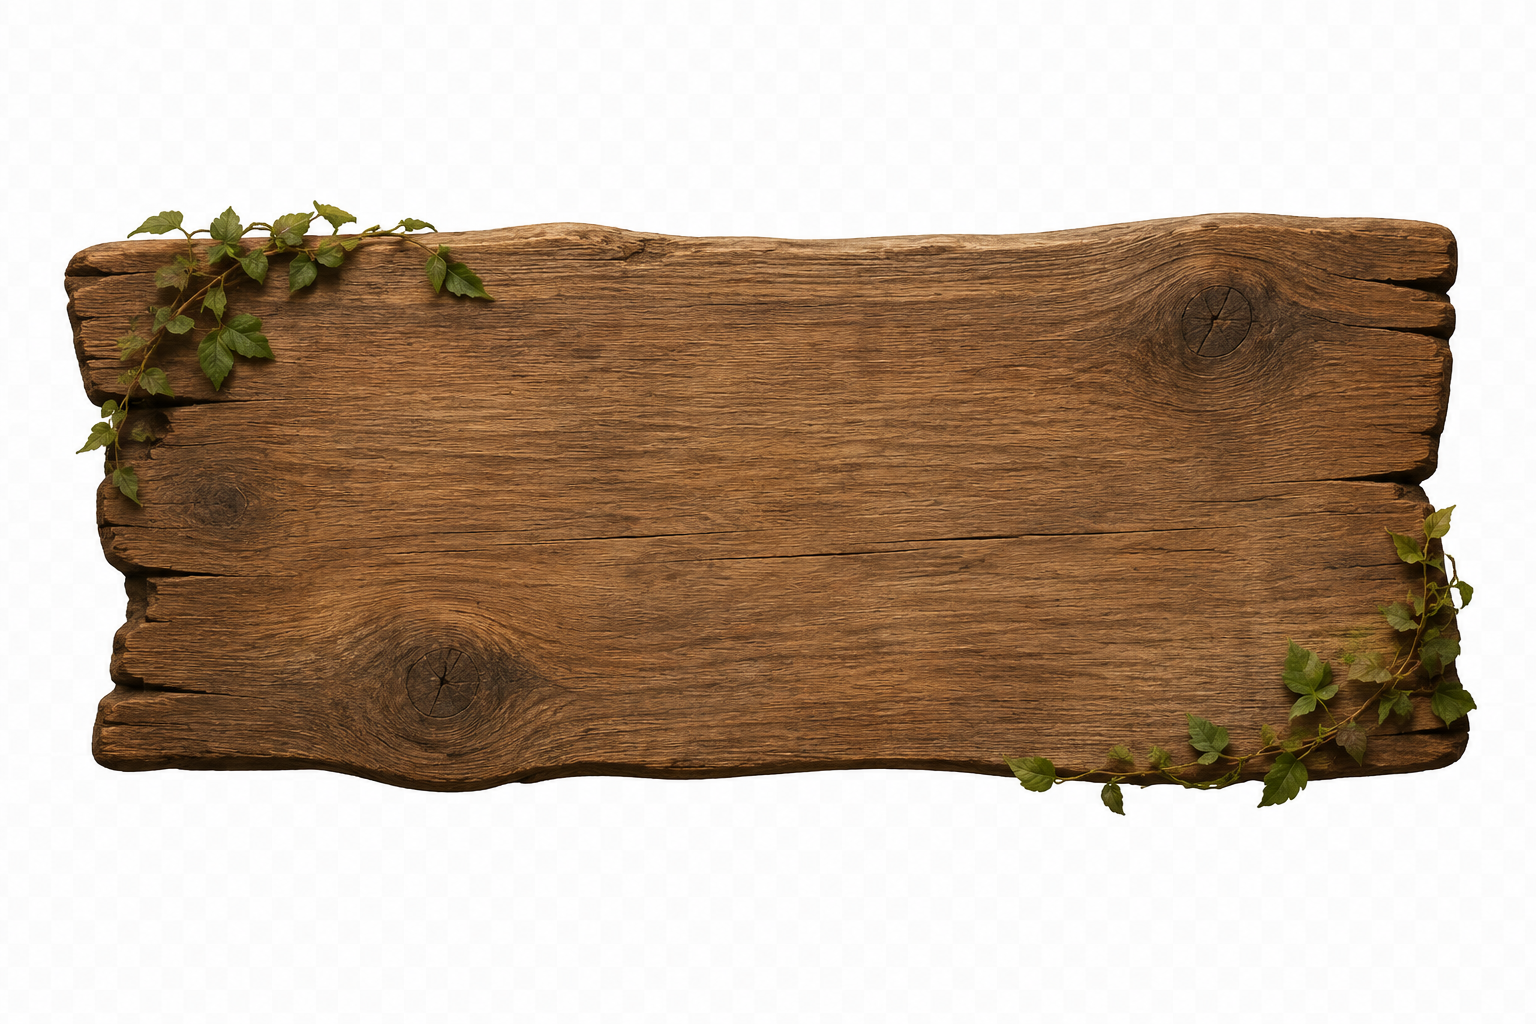
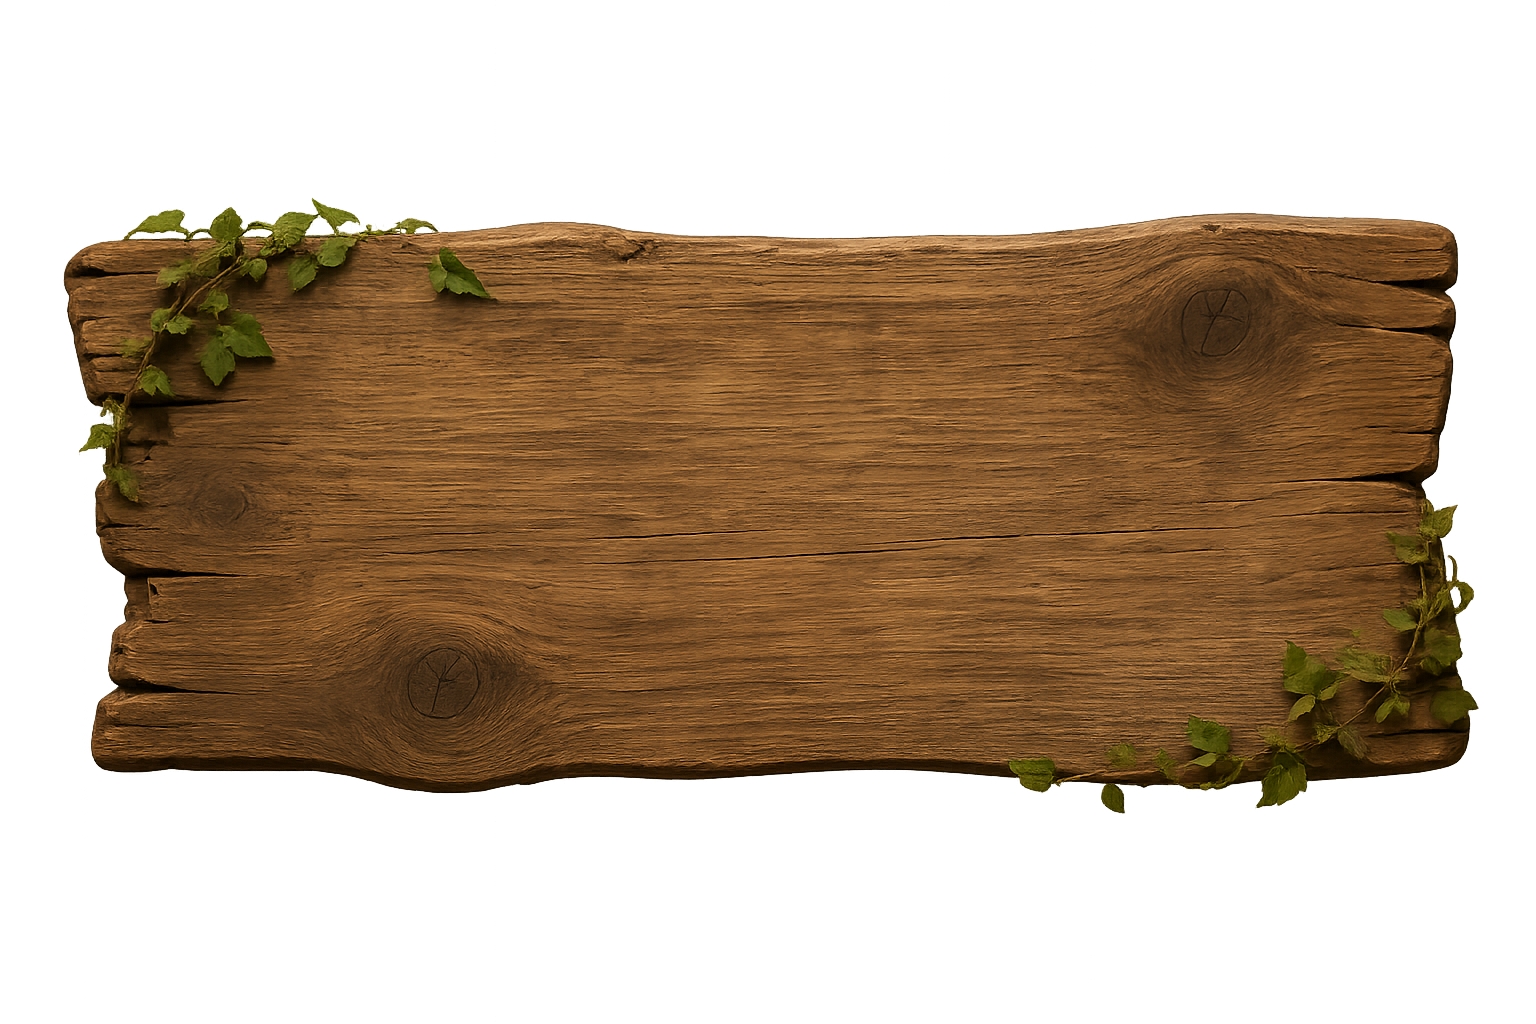
席紹介追加　ボタンCSS改修 6/9

Changed region(s): [[0.0312, 0.1875, 0.9688, 0.7812]]

diff --git a/style.css b/style.css
@@ -29,12 +29,17 @@ body {
     text-shadow: 0 2px 10px rgba(0,0,0,0.3);
 }
 /*とまりぎとは～の設定*/
-section {
+.about-section {
     max-width: 800px;
     margin: 0 auto;
     padding: 80px 20px;
     color: #5c5248;
+    text-align: center;
 }
+.about-section .wood-button {
+    margin: 0 auto;
+}
+
 /*とまりぎとは～のアニメーション設定*/
 .about-section {
     opacity: 0;
@@ -47,10 +52,11 @@ section {
 .about-section.show {
     opacity: 1;
     transform: translateY(0);
+
 }
 
 
-.about-section p {
+.about-section {
     white-space: pre-line;
     text-align: center;
     margin-top: 20px;
@@ -60,11 +66,10 @@ section {
 /*木のボタンの設定*/
 .wood-button{
     display: block;
+    align-self: center;
 
     width: 400px;
     height: 160px;
-
-    margin: 50px auto;
 
     background-image: url("images/button-background.png");
     background-size: contain;
@@ -78,4 +83,26 @@ section {
     text-decoration: none;
     color: #f5f3ee;
     font-size: 1.5rem;
+}
+
+.seat-menu {
+    display: flex;
+    justify-content: center;
+    align-items: center;
+    gap: 40px;
+    margin-top: 40px;
+}
+.seat-menu-image img {
+    width: 300px;
+    height: auto;
+    border-radius: 10px;
+}
+.seat-menu-hitoyasumi-text{
+    text-align: center;
+    font-size: 1.2rem;
+    color: #5c5248;
+    margin-top: 40px;
+    display:flex;
+    flex-direction: column;
+    gap: 10px;
 }

diff --git a/index.html b/index.html
@@ -29,7 +29,22 @@
         ちょっと羽を休めたいとき、 地図を眺める時間が欲しいとき、
         そんなときに立ち寄る場所。
     </p>
+    </div>
+
+    <!--ひとやすみ席の紹介-->
+<div class="seat-menu">
+<div class="seat-menu-hitoyasumi-text">
+    <a href="#" class="wood-button">ひとやすみ席</a>
+    <p>
+    忙しい毎日に、小さな寄り道。
+    </p>
 </div>
+<div class="seat-menu-image">
+    <img src="images/hitoyasumi.png" alt="ひとりぶんのお席">
+</div>
+</div>
+
+
 
 <script src="script.js"></script>
 